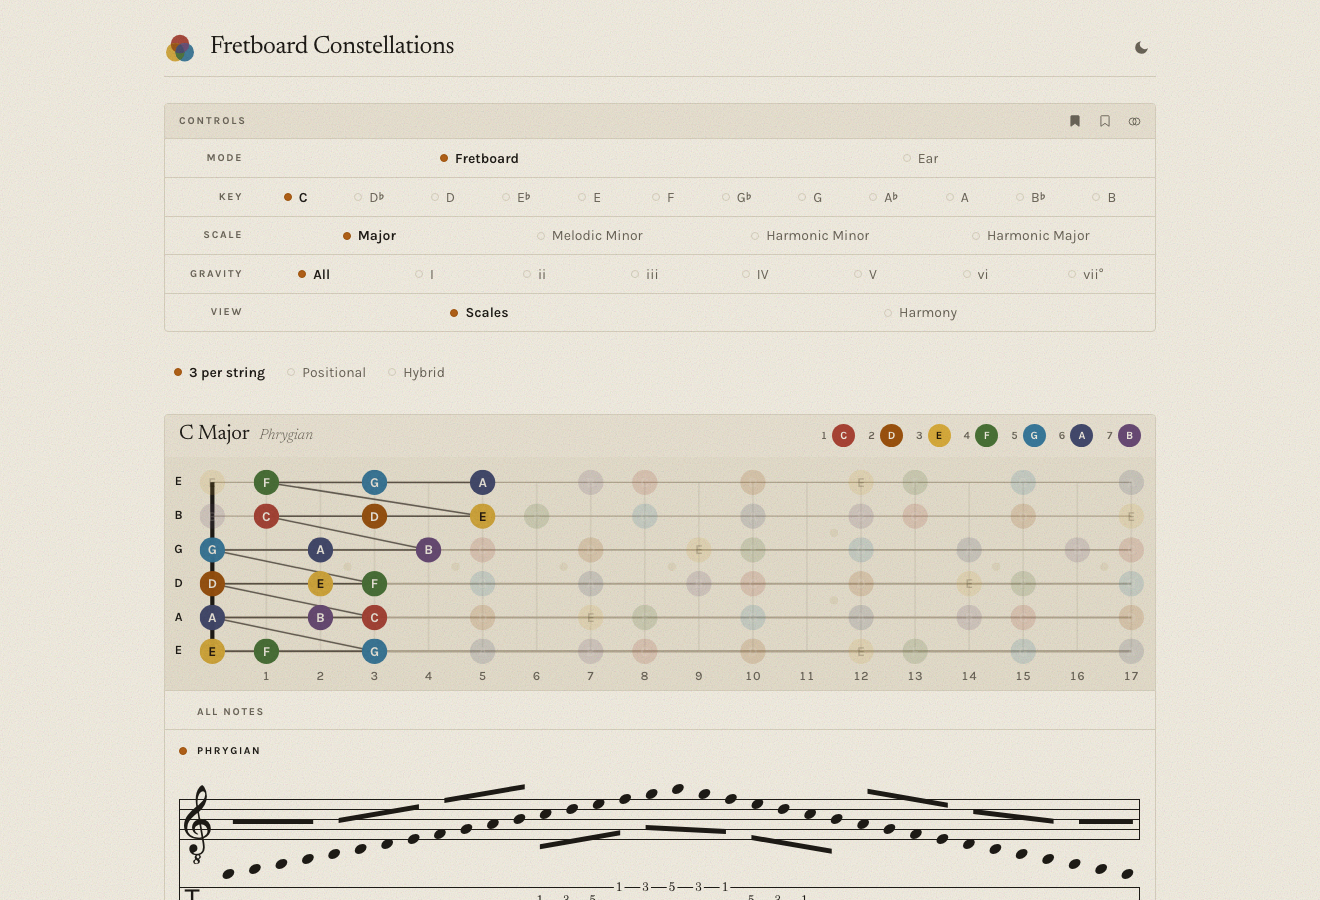
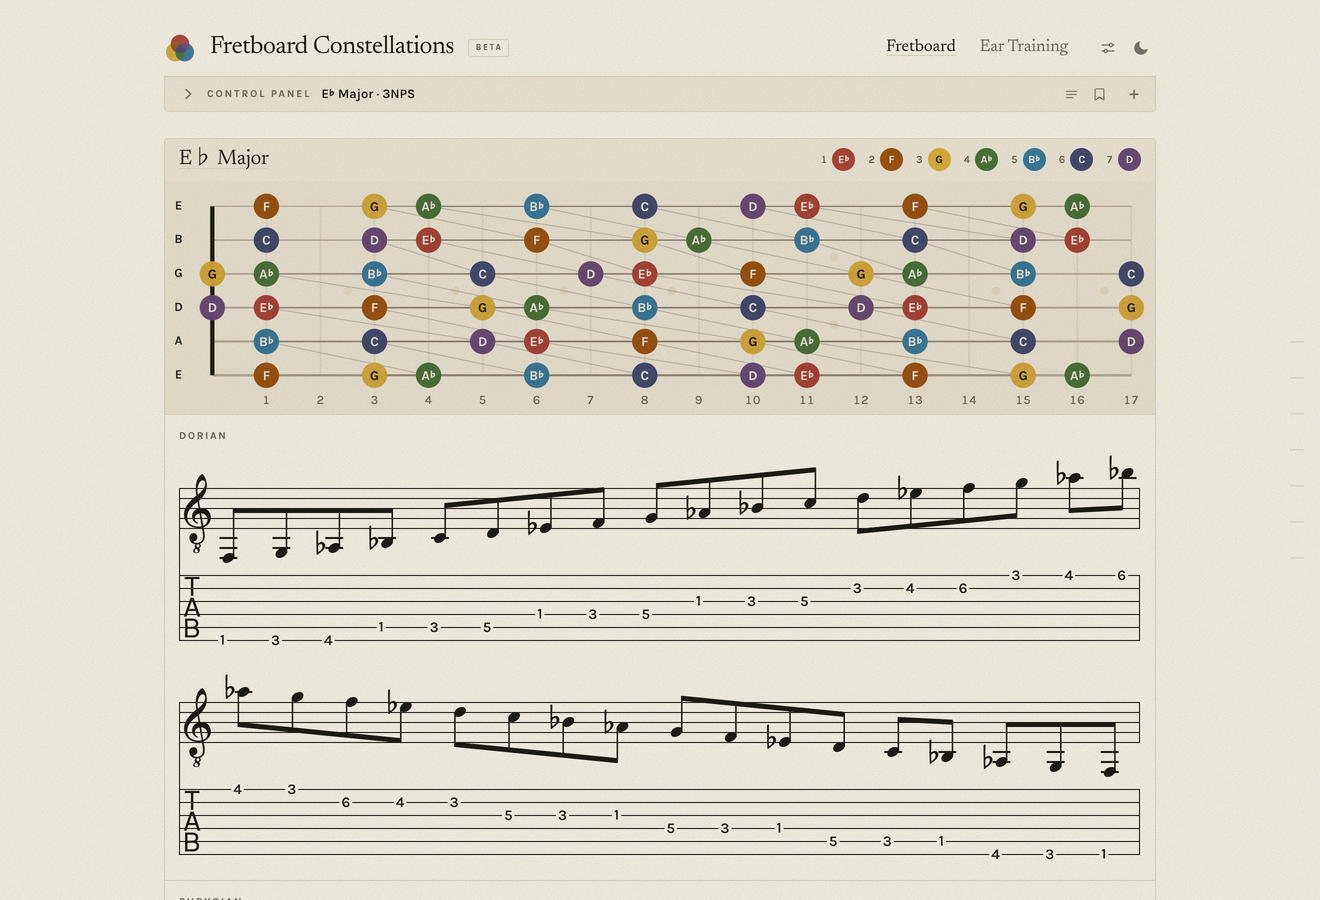
Fretboard: a new picture of the work, with its stems
The card, the cover and the link preview all showed a capture from
before the notation engraved properly: a run of eighth notes with their
beams floating over stemless heads. It also showed controls the app no
longer has — a Mode row, and "3 per string / Positional / Hybrid".

The new picture is the current build: E-flat major, every note of the
key lit across the neck, the control panel folded to one line, and two
systems of notation and TAB with every stem where it belongs. It's the
same view the case study opens on, so the card and the page agree.

Same files, same sizes, so no markup changes: the cover stays 1320x900,
rendered at 2x and scaled down; the thumbnail is the cover at 640x436, as
before, and is also the Next picture on Archive and Ground Beneath Our
Feet. In the link preview, only card 01's picture is replaced, in its
own slot. Its URL takes a new version on every page so messaging apps
fetch it again.

diff --git a/becoming.html b/becoming.html
@@ -12,7 +12,7 @@
     <meta property="og:title" content="Case study — Becoming">
     <meta property="og:description" content="Case study: Becoming — a local-first companion for life development that reports without grading. Money, the body, time and attention in one place, on a Mac and as a Home Screen app, with the data never leaving the device. Product design and build by Stu Pender.">
     <meta property="og:url" content="https://stupender.github.io/becoming.html">
-    <meta property="og:image" content="https://stupender.github.io/images/og-card.png?v=20261013">
+    <meta property="og:image" content="https://stupender.github.io/images/og-card.png?v=20261019">
     <meta property="og:image:width" content="1200">
     <meta property="og:image:height" content="630">
     <meta property="og:image:alt" content="Stu Pender, product designer — “Building tools to support embodied presence,” beside a circle of lake water printed in one ink, over four black cards of his projects.">

diff --git a/archive-case-study.html b/archive-case-study.html
@@ -12,7 +12,7 @@
     <meta property="og:title" content="Case study — Archive">
     <meta property="og:description" content="Case study: Archive — a local-first macOS app for re-discovering large music libraries, built with a real-time Web Audio engine and designed to stay maintainable by a small offline AI model. Product design and build by Stu Pender.">
     <meta property="og:url" content="https://stupender.github.io/archive-case-study.html">
-    <meta property="og:image" content="https://stupender.github.io/images/og-card.png?v=20261013">
+    <meta property="og:image" content="https://stupender.github.io/images/og-card.png?v=20261019">
     <meta property="og:image:width" content="1200">
     <meta property="og:image:height" content="630">
     <meta property="og:image:alt" content="Stu Pender, product designer — “Building tools to support embodied presence,” beside a circle of lake water printed in one ink, over four black cards of his projects.">

diff --git a/fretboard-constellations.html b/fretboard-constellations.html
@@ -12,7 +12,7 @@
     <meta property="og:title" content="Case study — Fretboard Constellations">
     <meta property="og:description" content="Case study: Fretboard Constellations — a guitar theory instrument that lights every note of a key across the neck, built for the middle of a lesson. Product design and build by Stu Pender.">
     <meta property="og:url" content="https://stupender.github.io/fretboard-constellations.html">
-    <meta property="og:image" content="https://stupender.github.io/images/og-card.png?v=20261013">
+    <meta property="og:image" content="https://stupender.github.io/images/og-card.png?v=20261019">
     <meta property="og:image:width" content="1200">
     <meta property="og:image:height" content="630">
     <meta property="og:image:alt" content="Stu Pender, product designer — “Building tools to support embodied presence,” beside a circle of lake water printed in one ink, over four black cards of his projects.">

diff --git a/yoga-of-the-voice.html b/yoga-of-the-voice.html
@@ -12,7 +12,7 @@
     <meta property="og:title" content="Case study — Yoga of the Voice">
     <meta property="og:description" content="Case study: the Yoga of the Voice Certificate landing page for Silvia Nakkach / Vox Mundi School — translating a client's AI draft into a warm, on-lineage site. Design and build by Stu Pender.">
     <meta property="og:url" content="https://stupender.github.io/yoga-of-the-voice.html">
-    <meta property="og:image" content="https://stupender.github.io/images/og-card.png?v=20261013">
+    <meta property="og:image" content="https://stupender.github.io/images/og-card.png?v=20261019">
     <meta property="og:image:width" content="1200">
     <meta property="og:image:height" content="630">
     <meta property="og:image:alt" content="Stu Pender, product designer — “Building tools to support embodied presence,” beside a circle of lake water printed in one ink, over four black cards of his projects.">

diff --git a/ground-beneath-our-feet.html b/ground-beneath-our-feet.html
@@ -12,7 +12,7 @@
     <meta property="og:title" content="Case study — The Ground Beneath Our Feet">
     <meta property="og:description" content="Case study: The Ground Beneath Our Feet — a music-licensing site for songwriter Jon Adams, taken from research to a shipped front-end. UX, branding, and build by Stu Pender.">
     <meta property="og:url" content="https://stupender.github.io/ground-beneath-our-feet.html">
-    <meta property="og:image" content="https://stupender.github.io/images/og-card.png?v=20261013">
+    <meta property="og:image" content="https://stupender.github.io/images/og-card.png?v=20261019">
     <meta property="og:image:width" content="1200">
     <meta property="og:image:height" content="630">
     <meta property="og:image:alt" content="Stu Pender, product designer — “Building tools to support embodied presence,” beside a circle of lake water printed in one ink, over four black cards of his projects.">

diff --git a/joan-gutierrez.html b/joan-gutierrez.html
@@ -12,7 +12,7 @@
     <meta property="og:title" content="Case study — Joan Gutiérrez">
     <meta property="og:description" content="Case study: Joan Gutiérrez — a brand and marketing site for an intimacy, embodiment, and nervous-system educator. Design and build by Stu Pender.">
     <meta property="og:url" content="https://stupender.github.io/joan-gutierrez.html">
-    <meta property="og:image" content="https://stupender.github.io/images/og-card.png?v=20261013">
+    <meta property="og:image" content="https://stupender.github.io/images/og-card.png?v=20261019">
     <meta property="og:image:width" content="1200">
     <meta property="og:image:height" content="630">
     <meta property="og:image:alt" content="Stu Pender, product designer — “Building tools to support embodied presence,” beside a circle of lake water printed in one ink, over four black cards of his projects.">

diff --git a/resume.html b/resume.html
@@ -12,7 +12,7 @@
     <meta property="og:title" content="Résumé — Stu Pender">
     <meta property="og:description" content="Résumé of Stu Pender — product designer in Chicago who designs and builds: UX/UI, visual design, and front-end with AI-assisted development.">
     <meta property="og:url" content="https://stupender.github.io/resume.html">
-    <meta property="og:image" content="https://stupender.github.io/images/og-card.png?v=20261013">
+    <meta property="og:image" content="https://stupender.github.io/images/og-card.png?v=20261019">
     <meta property="og:image:width" content="1200">
     <meta property="og:image:height" content="630">
     <meta property="og:image:alt" content="Stu Pender, product designer — “Building tools to support embodied presence,” beside a circle of lake water printed in one ink, over four black cards of his projects.">

diff --git a/archive.html b/archive.html
@@ -12,7 +12,7 @@
     <meta property="og:title" content="Experiments — Stu Pender">
     <meta property="og:description" content="Earlier creative-coding experiments by Stu Pender — generative systems music and small music-practice tools built while learning to code.">
     <meta property="og:url" content="https://stupender.github.io/archive.html">
-    <meta property="og:image" content="https://stupender.github.io/images/og-card.png?v=20261013">
+    <meta property="og:image" content="https://stupender.github.io/images/og-card.png?v=20261019">
     <meta property="og:image:width" content="1200">
     <meta property="og:image:height" content="630">
     <meta property="og:image:alt" content="Stu Pender, product designer — “Building tools to support embodied presence,” beside a circle of lake water printed in one ink, over four black cards of his projects.">

diff --git a/index.html b/index.html
@@ -12,7 +12,7 @@
     <meta property="og:title" content="Stu Pender — Product Designer">
     <meta property="og:description" content="Stu Pender — product designer in Chicago. Building tools to support embodied presence: software for the moments that happen off the screen.">
     <meta property="og:url" content="https://stupender.github.io/">
-    <meta property="og:image" content="https://stupender.github.io/images/og-card.png?v=20261013">
+    <meta property="og:image" content="https://stupender.github.io/images/og-card.png?v=20261019">
     <meta property="og:image:width" content="1200">
     <meta property="og:image:height" content="630">
     <meta property="og:image:alt" content="Stu Pender, product designer — “Building tools to support embodied presence,” beside a circle of lake water printed in one ink, over four black cards of his projects.">
